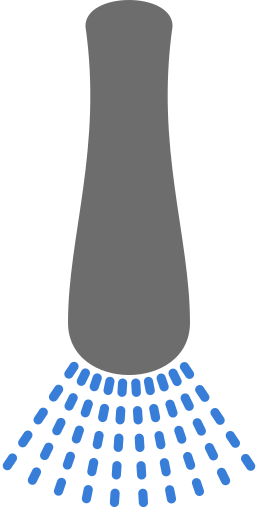
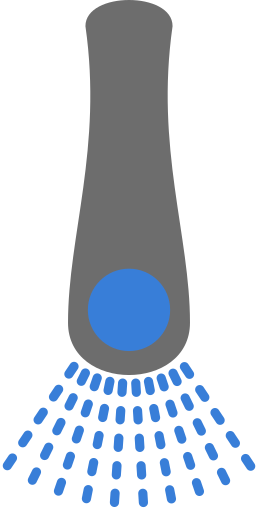
Implemented PrepSpace.addUtensil()

Changed region(s): [[0.3411, 0.5, 0.6822, 0.6875]]

diff --git a/style/main.css b/style/main.css
@@ -1,1 +1,1 @@
-h1,h2,h3,h4,h5,h6,ol,p,span{font-family:Comfortaa,sans-serif;font-size:5vh;text-align:center}h1,h2,h3,h4,h5,h6{font-family:Unkempt,sans-serif;font-weight:700}h1{font-size:10vh}h2{font-size:7.5vh}h3{font-size:6.75vh;margin:2.5vh auto}p{width:90%;font-family:Comfortaa,sans-serif;margin:2.5vh 5%}ol{width:90%;margin:0 auto;list-style-type:square;list-style-position:inside}li{text-align:left;color:#1a1a1a}li.highlighted{font-weight:700;color:#b5181e}html{background:url(img/wood.jpg);overflow-x:hidden}header{width:96vw;padding:2vw;background:#e11f26;border-bottom:2vw solid #b5181e}header img.logo{height:10vh}header button#openMenu{background:#b5181e;width:10vh;height:10vh;line-height:10vh;border-radius:5vh;position:fixed}div#options{position:fixed;background:0 0;width:80vw;height:auto;left:8vw;transition:all .5s ease;-webkit-transition:all .5s ease}div#options button.menuOption{width:100%;margin:1.25vh 0;color:#b5181e;background:#fff;border-left:2.5vh solid #b5181e;transition:all .5s ease;-webkit-transition:all .5s ease}div#options button.menuOption:hover{background:#b5181e;color:#fff}div.options-open{top:20vh}div.options-close{top:-50vh}div.sidebar{position:fixed;top:0;width:70vw;height:100vh;background:#fff;color:#b5181e;border-right:2vw solid #b5181e;transition:all .5s ease;-webkit-transition:all .5s ease;z-index:50}div.sidebar h2{background:#e11f26;color:#fff;padding:1.25vh 0}div.sidebar button.closeSideBar{position:absolute;top:90vh;left:20vw;width:30vw;height:7.5vh;line-height:7.5vh;font-size:2.5vh;background:#e11f26}div.sidebar-open{left:0}div.sidebar-close{left:-72vw}button,input,select{outline:0;border:none;box-sizing:border-box;color:#fff;font-family:Comfortaa,sans-serif;font-size:5vh;line-height:7.5vh}div.location{width:90vw;height:56.25vw;margin:5vw auto;border-top:.75vh solid #b5181e;background-repeat:no-repeat;background-position:center center;-webkit-background-size:cover;-moz-background-size:cover;-o-background-size:cover;background-size:cover}div.location span.label{background:#b5181e;padding:0 2.5vh;border-bottom:.75vh solid #fff;margin:0 2.5vh;font-family:Unkempt,sans-serif;font-size:2.5vh;color:#fff}div.location div.ingredient span.label{background:#1a1a1a}div.ingredient{width:10vh;height:10vh;margin:2.5vh;background-repeat:no-repeat;background-position:center center;-webkit-background-size:cover;-moz-background-size:cover;-o-background-size:cover;background-size:cover}div.ingredient span.label{background:#e11f26;color:#fff;padding:1.25vh;margin-top:3.125vh;margin-left:11.25vh;position:absolute;border:none;font-size:2.5vh;text-align:center}div.utensil{background-repeat:no-repeat;background-position:center center;-webkit-background-size:cover;-moz-background-size:cover;-o-background-size:cover;background-size:cover;transition:all .5s ease;-webkit-transition:all .5s ease}div.utensil span.label{background:#387ed8;color:#fff;padding:1.25vh;margin-top:3.125vh;margin-left:11.25vh;position:absolute;border:none;font-size:2.5vh;text-align:center}div#faucet{margin:0 auto}
+h1,h2,h3,h4,h5,h6,ol,p,span{font-family:Comfortaa,sans-serif;font-size:5vh;text-align:center}h1,h2,h3,h4,h5,h6{font-family:Unkempt,sans-serif;font-weight:700}h1{font-size:10vh}h2{font-size:7.5vh}h3{font-size:6.75vh;margin:2.5vh auto}p{width:90%;font-family:Comfortaa,sans-serif;margin:2.5vh 5%}ol{width:90%;margin:0 auto;list-style-type:square;list-style-position:inside}li{text-align:left;color:#1a1a1a}li.highlighted{font-weight:700;color:#b5181e}html{background:url(img/wood.jpg);overflow-x:hidden}header{width:96vw;padding:2vw;background:#e11f26;border-bottom:2vw solid #b5181e}header img.logo{height:10vh}header button#openMenu{background:#b5181e;width:10vh;height:10vh;line-height:10vh;border-radius:5vh;position:fixed}div#options{position:fixed;background:0 0;width:80vw;height:auto;left:8vw;transition:all .5s ease;-webkit-transition:all .5s ease}div#options button.menuOption{width:100%;margin:1.25vh 0;color:#b5181e;background:#fff;border-left:2.5vh solid #b5181e;transition:all .5s ease;-webkit-transition:all .5s ease}div#options button.menuOption:hover{background:#b5181e;color:#fff}div.options-open{top:20vh}div.options-close{top:-50vh}div.sidebar{position:fixed;top:0;width:70vw;height:100vh;background:#fff;color:#b5181e;border-right:2vw solid #b5181e;transition:all .5s ease;-webkit-transition:all .5s ease;z-index:50}div.sidebar h2{background:#e11f26;color:#fff;padding:1.25vh 0}div.sidebar button.closeSideBar{position:absolute;top:90vh;left:20vw;width:30vw;height:7.5vh;line-height:7.5vh;font-size:2.5vh;background:#e11f26}div.sidebar-open{left:0}div.sidebar-close{left:-72vw}button,input,select{outline:0;border:none;box-sizing:border-box;color:#fff;font-family:Comfortaa,sans-serif;font-size:5vh;line-height:7.5vh}div.location{width:90vw;height:56.25vw;margin:5vw auto;border-top:.75vh solid #b5181e;background-repeat:no-repeat;background-position:center center;-webkit-background-size:cover;-moz-background-size:cover;-o-background-size:cover;background-size:cover}div.location span.label{background:#b5181e;padding:0 2.5vh;border-bottom:.75vh solid #fff;margin:0 2.5vh;font-family:Unkempt,sans-serif;font-size:2.5vh;color:#fff}div.location div.ingredient span.label{background:#1a1a1a}div.ingredient{width:10vh;height:10vh;margin:2.5vh;background-repeat:no-repeat;background-position:center center;-webkit-background-size:cover;-moz-background-size:cover;-o-background-size:cover;background-size:cover}div.ingredient span.label{background:#e11f26;color:#fff;padding:1.25vh;margin-top:3.125vh;margin-left:11.25vh;position:absolute;border:none;font-size:2.5vh;text-align:center}div.utensil{background-repeat:no-repeat;background-position:center center;-webkit-background-size:cover;-moz-background-size:cover;-o-background-size:cover;background-size:cover}div.utensil span.label{background:#387ed8;color:#fff;padding:1.25vh;margin-top:3.125vh;margin-left:11.25vh;position:absolute;border:none;font-size:2.5vh;text-align:center}div#faucet{margin:0 auto}.faucet-on{background-image:url(img/faucet-on.png)}.faucet-off{background-image:url(img/faucet-off.png)}

diff --git a/data/utensil.js b/data/utensil.js
@@ -8,6 +8,9 @@ function Utensil(config){
 	this.height = parseFloat(config['height']);
 	this.id = config['id'];
 	this.image = config['image'];
+	this.draggable = config['draggable'];
+	console.log(this.draggable)
+	this.state = config['state'];
 	this.action = config['action'];
 }
 
@@ -23,13 +26,20 @@ Utensil.prototype.getScaledHeight = function(){
 	return scaled;
 }
 
+Utensil.prototype.getClasses = function(){
+	var classes = "utensil";
+	classes += " " + this.id + "-" + this.state;
+	return classes;
+}
+
 Utensil.prototype.toHTML = function(){
 	var html = '';
-	html += '<div class="utensil" ';
+	html += '<div class="' + this.getClasses() + '" ';
 	html += 'id="' + this.id + '" ';
 	html += 'style="width: ' + this.getScaledWidth() + 'vw;';
 	html += 'height: ' + this.getScaledHeight() + 'vw;';
-	html += 'background-image: url(' + this.image + ');"';
+	//html += 'background-image: url(' + this.image + ');
+	html += '"';
 	html += 'onclick=utensilAction(&quot;' + this.action + '&quot;);>';
 	html += '<span class="label">' + this.name + '</span>';
 	html += '</div>';
@@ -52,6 +62,29 @@ function utensilAction(action){
 }
 
 function faucetRinse(){
+
 	var faucet = document.getElementById('faucet');
-	faucet.style.backgroundImage = "url('style/img/faucet-on.png')";
+
+	function toggleFaucet(){
+		if($('#faucet').hasClass('faucet-on')){
+			$('#faucet').removeClass('faucet-on');
+			$('#faucet').addClass('faucet-off');
+		}
+		else{
+			$('#faucet').removeClass('faucet-off');
+			$('#faucet').addClass('faucet-on');
+		}
+	}
+
+	var rinse = 0;
+	var intervalID = setInterval(function(){
+		setTimeout(function(){
+			toggleFaucet();
+			rinse++;
+		}, 500);
+		if(rinse > 10){
+			clearInterval(intervalID);
+		}
+	}, 500);
+
 }

diff --git a/application/cooking.js b/application/cooking.js
@@ -39,14 +39,15 @@ var faucet = new Utensil({
 	width: 107.686,
 	height: 213.472,
 	image: 'style/img/faucet-off.png',
+	draggable: false,
+	state: 'on',
 	action: 'rinse'
 });
-document.getElementById('sink').innerHTML += faucet.toHTML();
+sink.addUtensil(faucet);
+//document.getElementById('sink').innerHTML += faucet.toHTML();
 
 $('#' + strawberry.id).draggable();
 $('#' + honey.id).draggable();
-
-$('#' + faucet.id).draggable();
 
 acceptDrops('plate')
 acceptDrops('sink')

diff --git a/data/prepSpace.js b/data/prepSpace.js
@@ -19,6 +19,14 @@ PrepSpace.prototype.toHTML = function(){
 	return html;
 }
 
+PrepSpace.prototype.addUtensil = function(utensil){
+	var prepSpace = document.getElementById(this.id);
+	prepSpace.innerHTML += utensil.toHTML();
+	if(utensil.draggable){
+		$('#' + utensil.id).draggable();
+	}
+}
+
 function acceptDrops(targetID){
 	$('#' + targetID).droppable({
 		accept: '.ingredient',

diff --git a/style/main.less b/style/main.less
@@ -299,14 +299,20 @@ div.utensil{
 		.DisplayLabel(@SinkBlue);
 	}
 
-	.AnimateAll();
-
 }
 
 	//DEFAULT UTENSIL POSITIONS
 
 	div#faucet{
 		margin: 0 auto;
+	}
+
+	.faucet-on{
+		background-image: url('img/faucet-on.png');
+	}
+
+	.faucet-off{
+		background-image: url('img/faucet-off.png');
 	}
 
 /*--------------------------------------------*/
